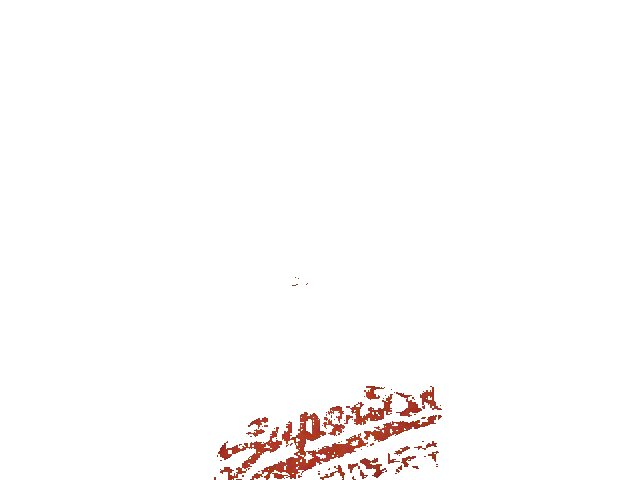
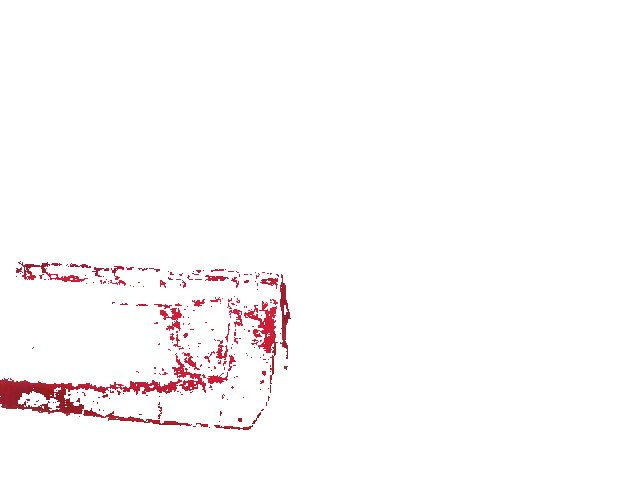
Fonctionnement des fonctions de mask de pygame => On arrive a detecter les zones rouge et verte rapidement

Changed region(s): [[0.0, 0.5938, 0.6875, 1.0], [0.0312, 0.5312, 0.2188, 0.5938], [0.25, 0.5625, 0.4375, 0.5938]]

diff --git a/ImageProcessing/get_color_alignment.py b/ImageProcessing/get_color_alignment.py
@@ -4,19 +4,21 @@ import pygame.camera
 import pygame.transform
 import numpy as np
 import pygame.surfarray
+from statistics import mean
 
 ## Init
 white = (255,255,255)
 white_array = np.array([255,255,255])
 red = (255,0,0)
 green = (0,255,0)
-sensibility = (10,5,5)
+black = (0,0,0)
+sensibility = (15,15,15)
 
 pygame.init()
 pygame.camera.init()
 
 display_width = 640
-display_height = 480
+display_height = 400
 
 image = pygame.image.load("test_color_line.jpg")
 
@@ -30,46 +32,22 @@ pygame.display.flip()
 
 ## Traitement pour le rouge
 
-print("Nombre de rouge : " + str(pygame.transform.threshold(display_window, display_window, red, sensibility, set_color = white, inverse_set = False) ))
+#print("Nombre de rouge : " + str(pygame.transform.threshold(display_window, display_window, red, sensibility, set_color = white, inverse_set = False) ))
+#pygame.display.flip()
+
+mask_red = pygame.mask.from_threshold(display_window, red, sensibility)
+mask_green = pygame.mask.from_threshold(display_window, green, sensibility)
+
+pos_red = mask_red.centroid()
+pos_green = mask_green.centroid()
+
+#print("taille du masque : " + str(mask.get_size()))
+print("Centre des pixels rouges : " + str(pos_red))
+print("Centre des pixels vert : " + str(pos_green))
+
+pygame.draw.line(display_window, black, pos_red, pos_green)
 pygame.display.flip()
 
-image_array =  pygame.surfarray.array3d(display_window)
-size_image_array = np.shape(image_array);
+time.sleep(2)
 
-x_green = []; y_green = [];
-x_red = []; y_red = [];
-
-for x in range(size_image_array[0]):
-	for y in range(size_image_array[1]):
-		
-		if (np.array_equal(image_array[x,y], white_array) == False) :
-			x_red.append(x)
-			y_red.append(y)
-		
-
-## Traitement pour le ver
-
-display_window.blit(image, (0,0))
-pygame.display.flip()
-
-print("Nombre de vert : " + str(pygame.transform.threshold(display_window, display_window, green, sensibility, set_color = white, inverse_set = False) ))
-pygame.display.flip()
-
-for x in range(size_image_array[0]):
-	for y in range(size_image_array[1]):
-		if (np.array_equal(image_array[x,y], white_array) == False):
-			x_green.append(x)
-			y_green.append(y)
-
-mean_x_green = mean(x_green)
-mean_y_green = mean(y_green)
-mean_x_red = mean(x_red)
-mean_y_red = mean(y_red)
-
-print("Vert : (" + mean_x_green)
-
-"""
- , " , " mean_y_green , ") Rouge : " , mean_x_red , " , " mean_y_red , " ]"
-"""
-
-
+pygame.quit()

diff --git a/ImageProcessing/threshold.py b/ImageProcessing/threshold.py
@@ -33,6 +33,7 @@ pygame.display.flip()
 
 
 print(pygame.transform.threshold(display_window, display_window, dark_red, sensibility, set_color = white, inverse_set = False) )
+()
 
 pygame.image.save(display_window,"image_transformed.jpg")
 time.sleep(2)
